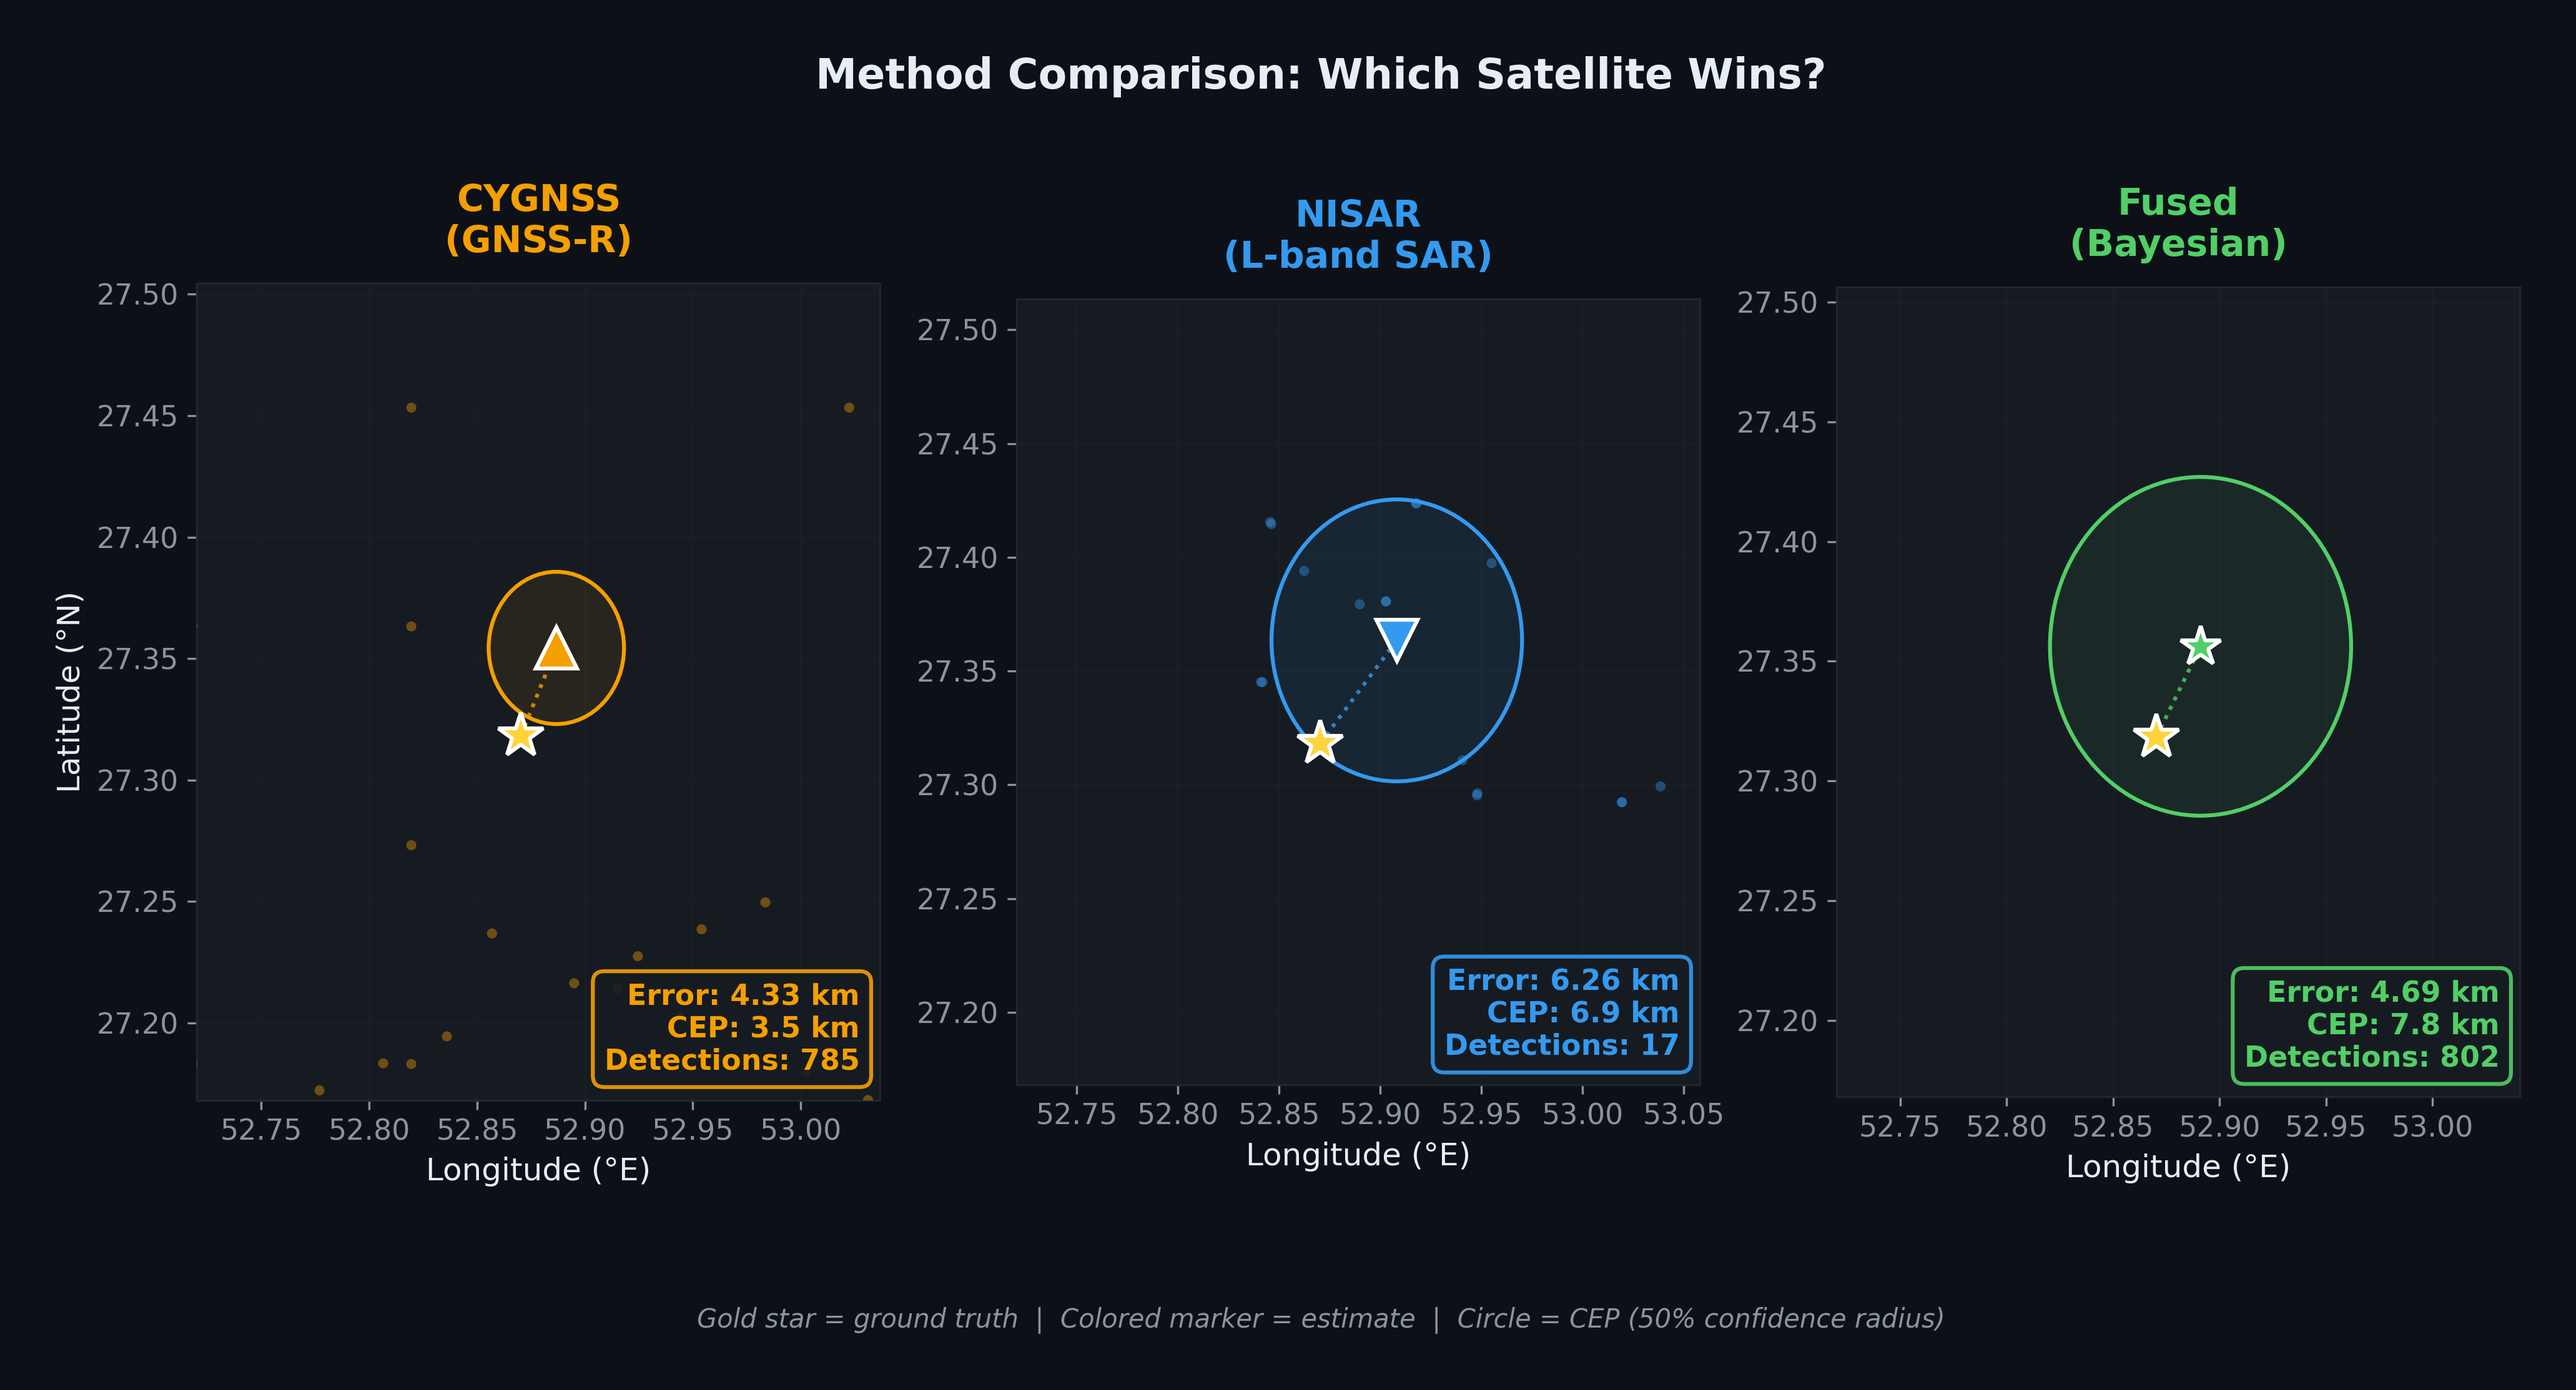
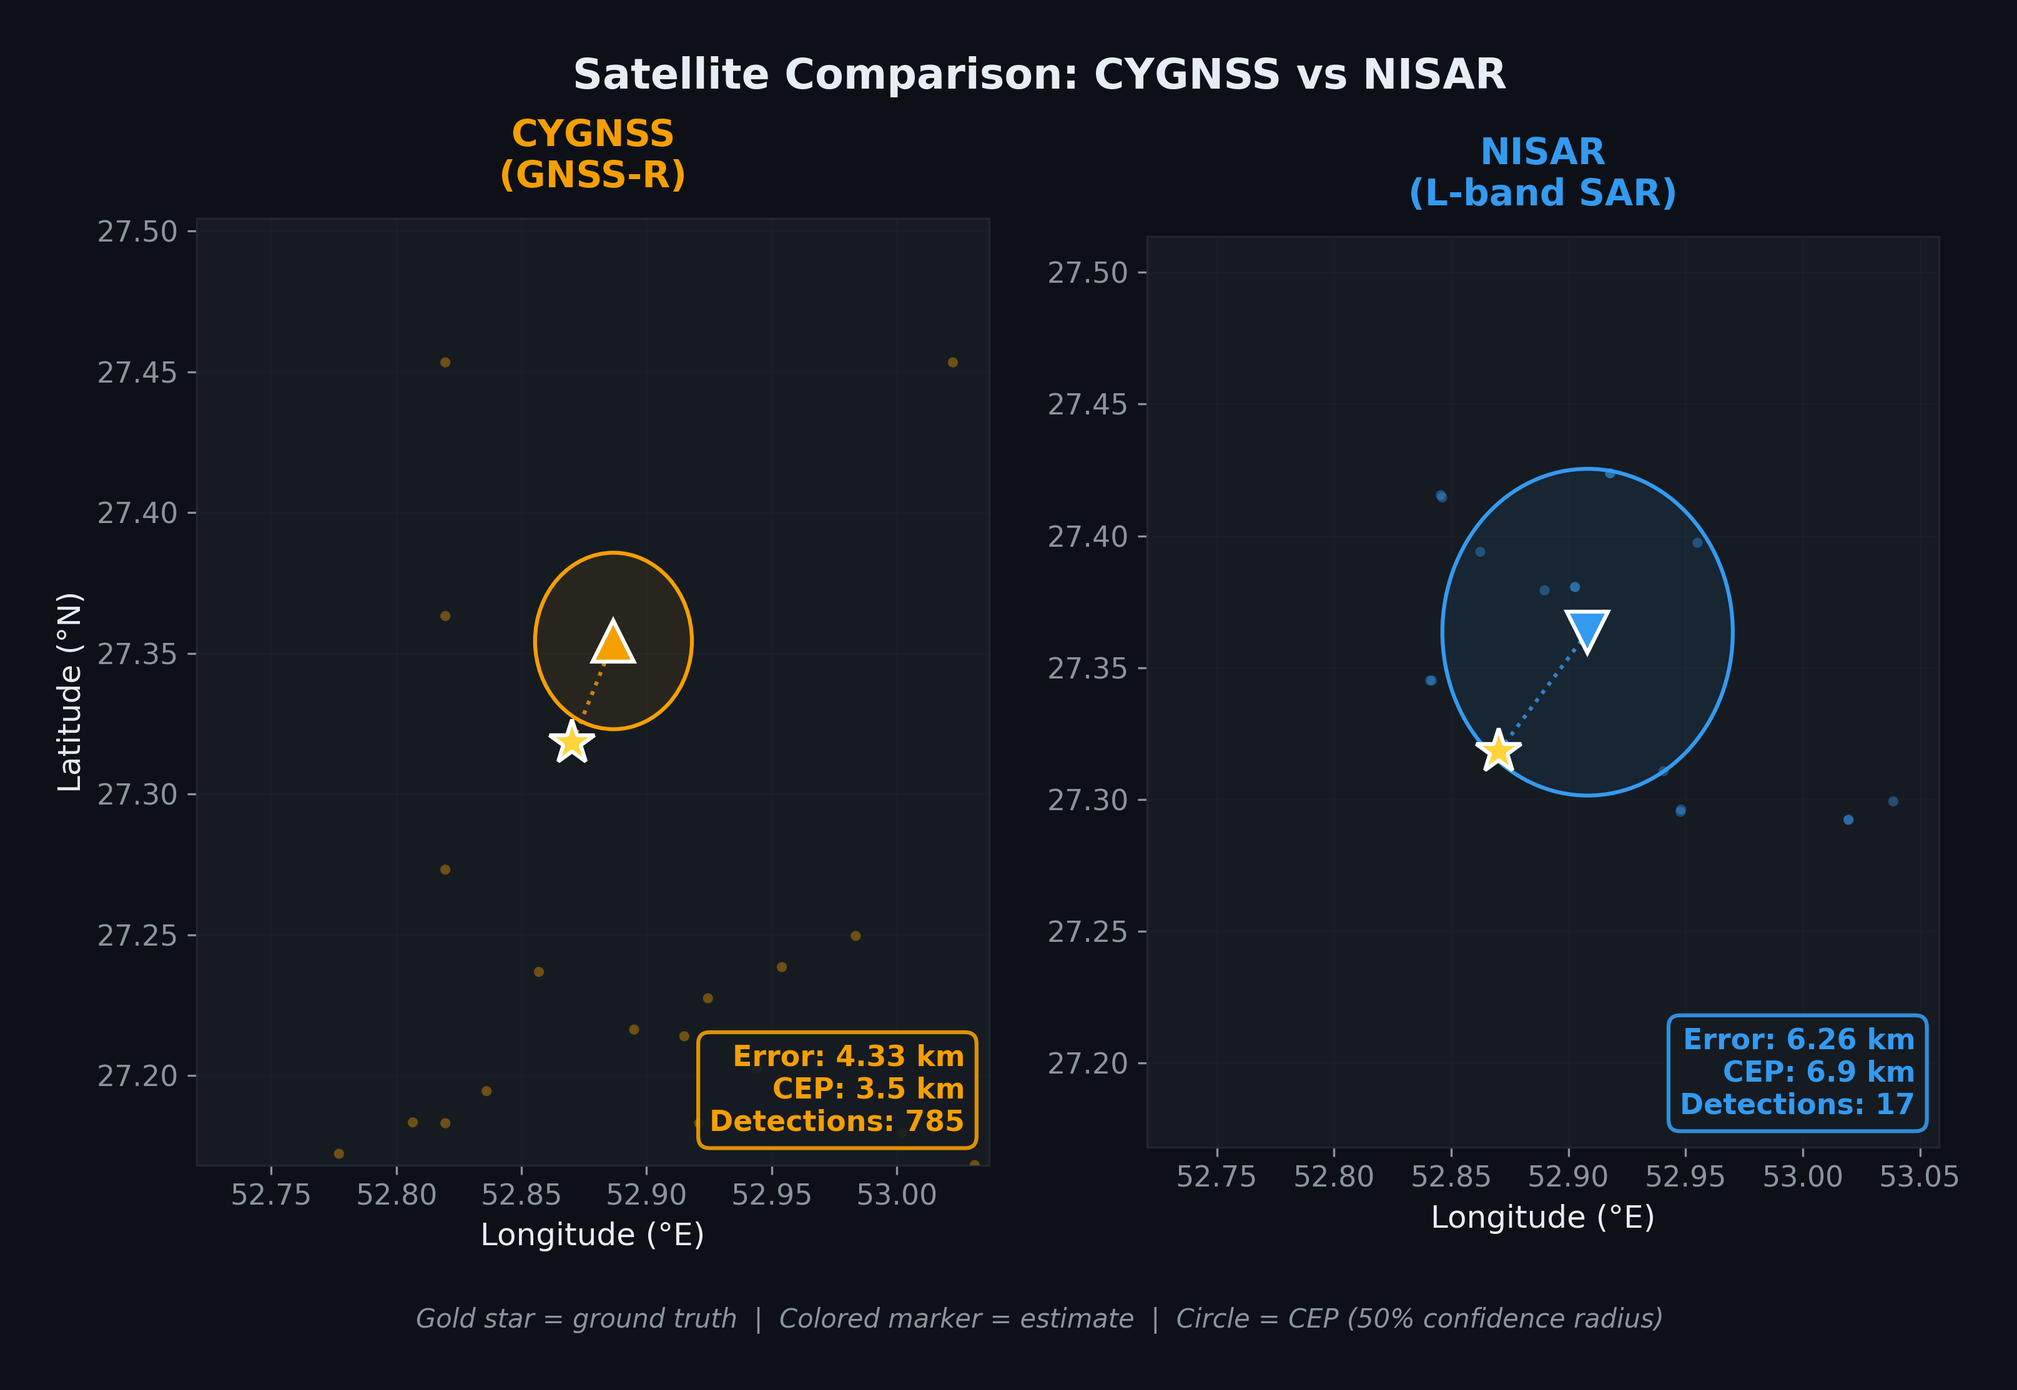
Remove fused result from fig5, show only CYGNSS vs NISAR
Figure 5 now shows a two-column comparison of CYGNSS and NISAR only,
deferring the fused/Bayesian result to later in the paper.

diff --git a/article_figures.py b/article_figures.py
@@ -619,14 +619,13 @@ def figure4_nisar_streaks(data):
 # ═══════════════════════════════════════════════════════════════════════════
 
 def figure5_method_comparison(data):
-    """Three-column comparison: CYGNSS vs NISAR vs Fused with metrics."""
+    """Two-column comparison: CYGNSS vs NISAR with metrics."""
     setup_dark_style()
-    fig, axes = plt.subplots(1, 3, figsize=(16, 7))
+    fig, axes = plt.subplots(1, 2, figsize=(12, 7))
 
     methods = [
         ("CYGNSS\n(GNSS-R)", data["cygnss"], CYGNSS_COLOR, "^"),
         ("NISAR\n(L-band SAR)", data["nisar"], NISAR_COLOR, "v"),
-        ("Fused\n(Bayesian)", data["fused"], FUSED_COLOR, "*"),
     ]
 
     for ax, (label, result, color, marker) in zip(axes, methods):
@@ -688,7 +687,7 @@ def figure5_method_comparison(data):
     for ax in axes:
         ax.set_xlabel("Longitude (°E)")
 
-    fig.suptitle("Method Comparison: Which Satellite Wins?",
+    fig.suptitle("Satellite Comparison: CYGNSS vs NISAR",
                 fontsize=16, fontweight="bold", y=0.98)
     fig.text(0.5, 0.01,
              "Gold star = ground truth  |  Colored marker = estimate  |  "
@@ -1052,7 +1051,7 @@ FIGURES = {
     2: ("ON vs OFF: The Smoking Gun", figure2_on_vs_off),
     3: ("CYGNSS 1/r² Inverse-Distance Model", figure3_inverse_distance),
     4: ("NISAR Streak Bearing Intersection", figure4_nisar_streaks),
-    5: ("Three-Column Method Comparison", figure5_method_comparison),
+    5: ("CYGNSS vs NISAR Comparison", figure5_method_comparison),
     6: ("Bayesian Fusion Mechanics", figure6_bayesian_fusion),
     7: ("Results Dashboard", figure7_dashboard),
     8: ("Jammer Persistence Timeline", figure8_timeline),
